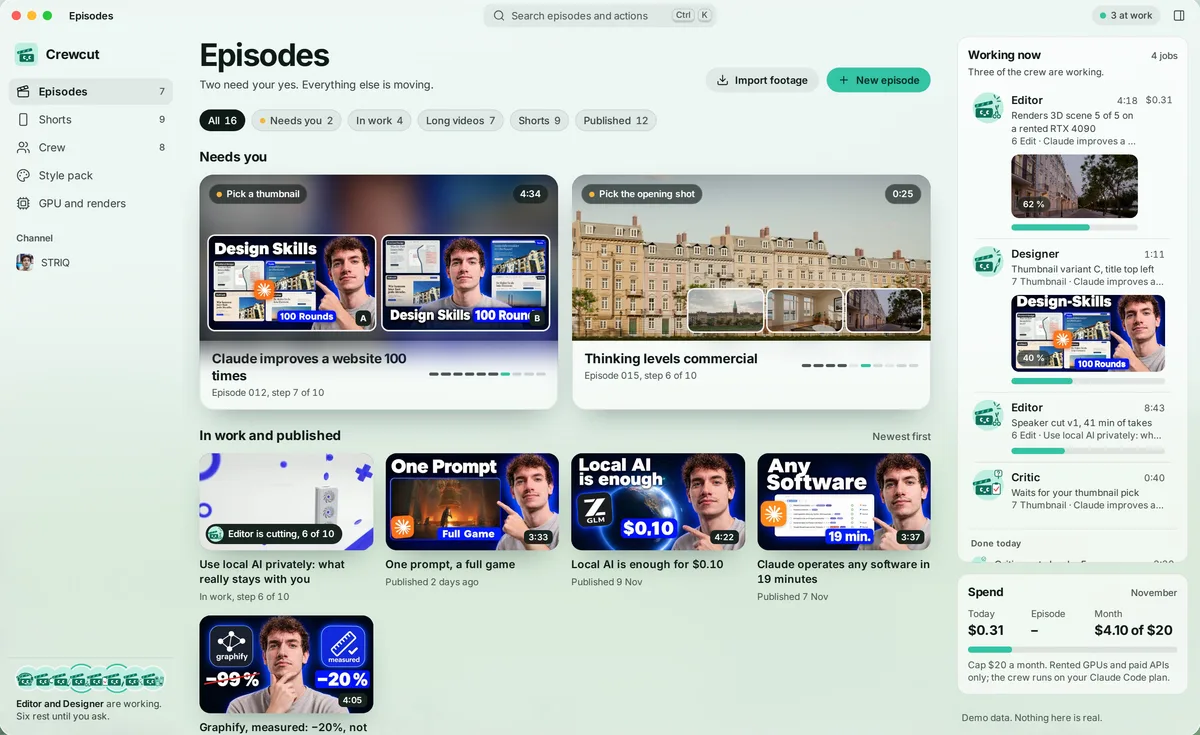
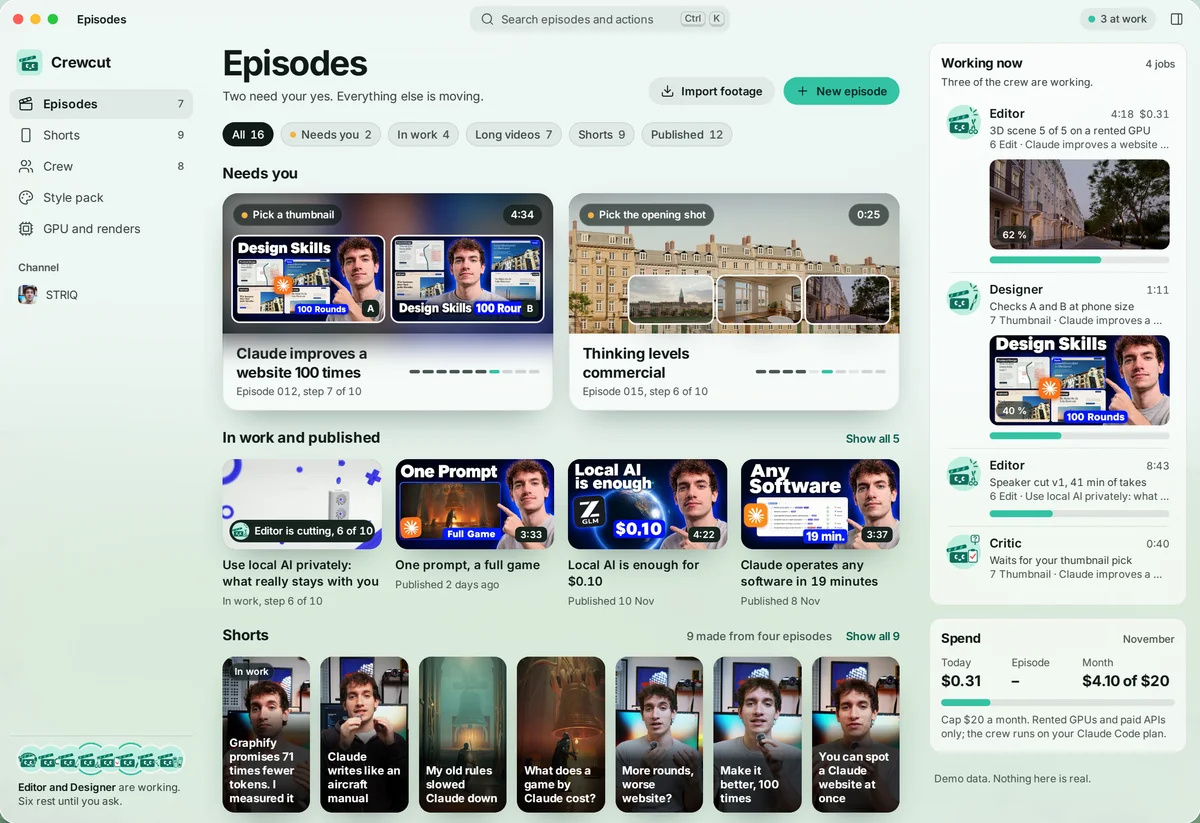
Landing page: the app window from the new README images (2880 x 2000, commit a208beb), cut to the window whole; four crew tiles recut from the same view
Claude-Session: https://claude.ai/code/session_0155cQo7JNko2nMx9UFSJV3g

diff --git a/site/index.html b/site/index.html
@@ -75,7 +75,7 @@
   <section class="stage" id="app" aria-label="The Crewcut app">
     <div class="wrap">
       <div class="stage__frame">
-        <img class="stage__shot" src="media/app/episode-dark-1760.webp" srcset="media/app/episode-dark-1200.webp 1200w, media/app/episode-dark-1760.webp 1760w, media/app/episode-dark-2400.webp 2400w" sizes="(min-width: 1360px) 1200px, calc(100vw - 32px)" alt="An episode in Crewcut: thumbnail A, B and C to pick from, the cut as a film strip with the Critic's notes, the 3D scenes and the rented GPU, and the crew chat on the right" width="1760" height="1078" fetchpriority="high">
+        <img class="stage__shot" src="media/app/episode-dark-1760.webp" srcset="media/app/episode-dark-1200.webp 1200w, media/app/episode-dark-1760.webp 1760w, media/app/episode-dark-2400.webp 2400w" sizes="(min-width: 1360px) 1200px, calc(100vw - 32px)" alt="An episode in Crewcut: thumbnail A, B and C to pick from, the cut as a film strip with the Critic's notes, the 3D scenes and the rented GPU, and the crew chat on the right" width="1760" height="1206" fetchpriority="high">
         <div class="workcard" role="img" aria-label="Working now: the Editor renders 3D scene 5 of 5 on a rented GPU, the Designer checks thumbnail B on a phone, the Critic compares cut v2 with your best video">
           <p class="workcard__h">Working now</p>
           <div class="workcard__j"><img src="assets/brand/crew/editor.svg" alt="" width="36" height="36"><div><b>Editor</b><span>3D scene 5 of 5, rented GPU</span><i class="workcard__bar"><i></i></i></div></div>
@@ -115,7 +115,7 @@
       <div class="scene">
         <picture>
           <source media="(prefers-color-scheme: dark)" srcset="media/app/episodes-dark-1200.webp 1200w, media/app/episodes-dark-1760.webp 1760w, media/app/episodes-dark-2400.webp 2400w" sizes="(min-width: 1360px) 1072px, calc(100vw - 64px)">
-          <img src="media/app/episodes-light-1760.webp" srcset="media/app/episodes-light-1200.webp 1200w, media/app/episodes-light-1760.webp 1760w, media/app/episodes-light-2400.webp 2400w" sizes="(min-width: 1360px) 1072px, calc(100vw - 64px)" alt="The Crewcut home: two episodes that need your yes, every video and Short with its thumbnail, and the crew at work with what it costs" width="1760" height="1078" loading="lazy" decoding="async">
+          <img src="media/app/episodes-light-1760.webp" srcset="media/app/episodes-light-1200.webp 1200w, media/app/episodes-light-1760.webp 1760w, media/app/episodes-light-2400.webp 2400w" sizes="(min-width: 1360px) 1072px, calc(100vw - 64px)" alt="The Crewcut home: two episodes that need your yes, every video and Short with its thumbnail, and the crew at work with what it costs" width="1760" height="1206" loading="lazy" decoding="async">
         </picture>
       </div>
     </div>

diff --git a/site/media/CREDITS.md b/site/media/CREDITS.md
@@ -23,5 +23,6 @@ from Poly Haven (CC0).
 **Thumbnails** (`thumbs/`): the author's own STRIQ thumbnails, shown in English. **Frames** (`frames/`): 3D scenes
 the studio rendered for a commercial, cut so that no words show.
 
-**The app** (`app/`, `crew/`): screenshots of the Crewcut web UI in demo mode, rendered in CI (screens workflow,
-commit 7468fca, run 43982257994, the same run as the README images), cut to the window or to one part of it.
+**The app** (`app/`, `crew/`): screenshots of the Crewcut web UI in demo mode, rendered in CI: the window and four crew
+tiles from the README images in `docs/readme/` (commit 2479819, 2880 x 2000), the drum, phone and other tiles from
+screens run 43982257994; cut to the window or to one part of it.
